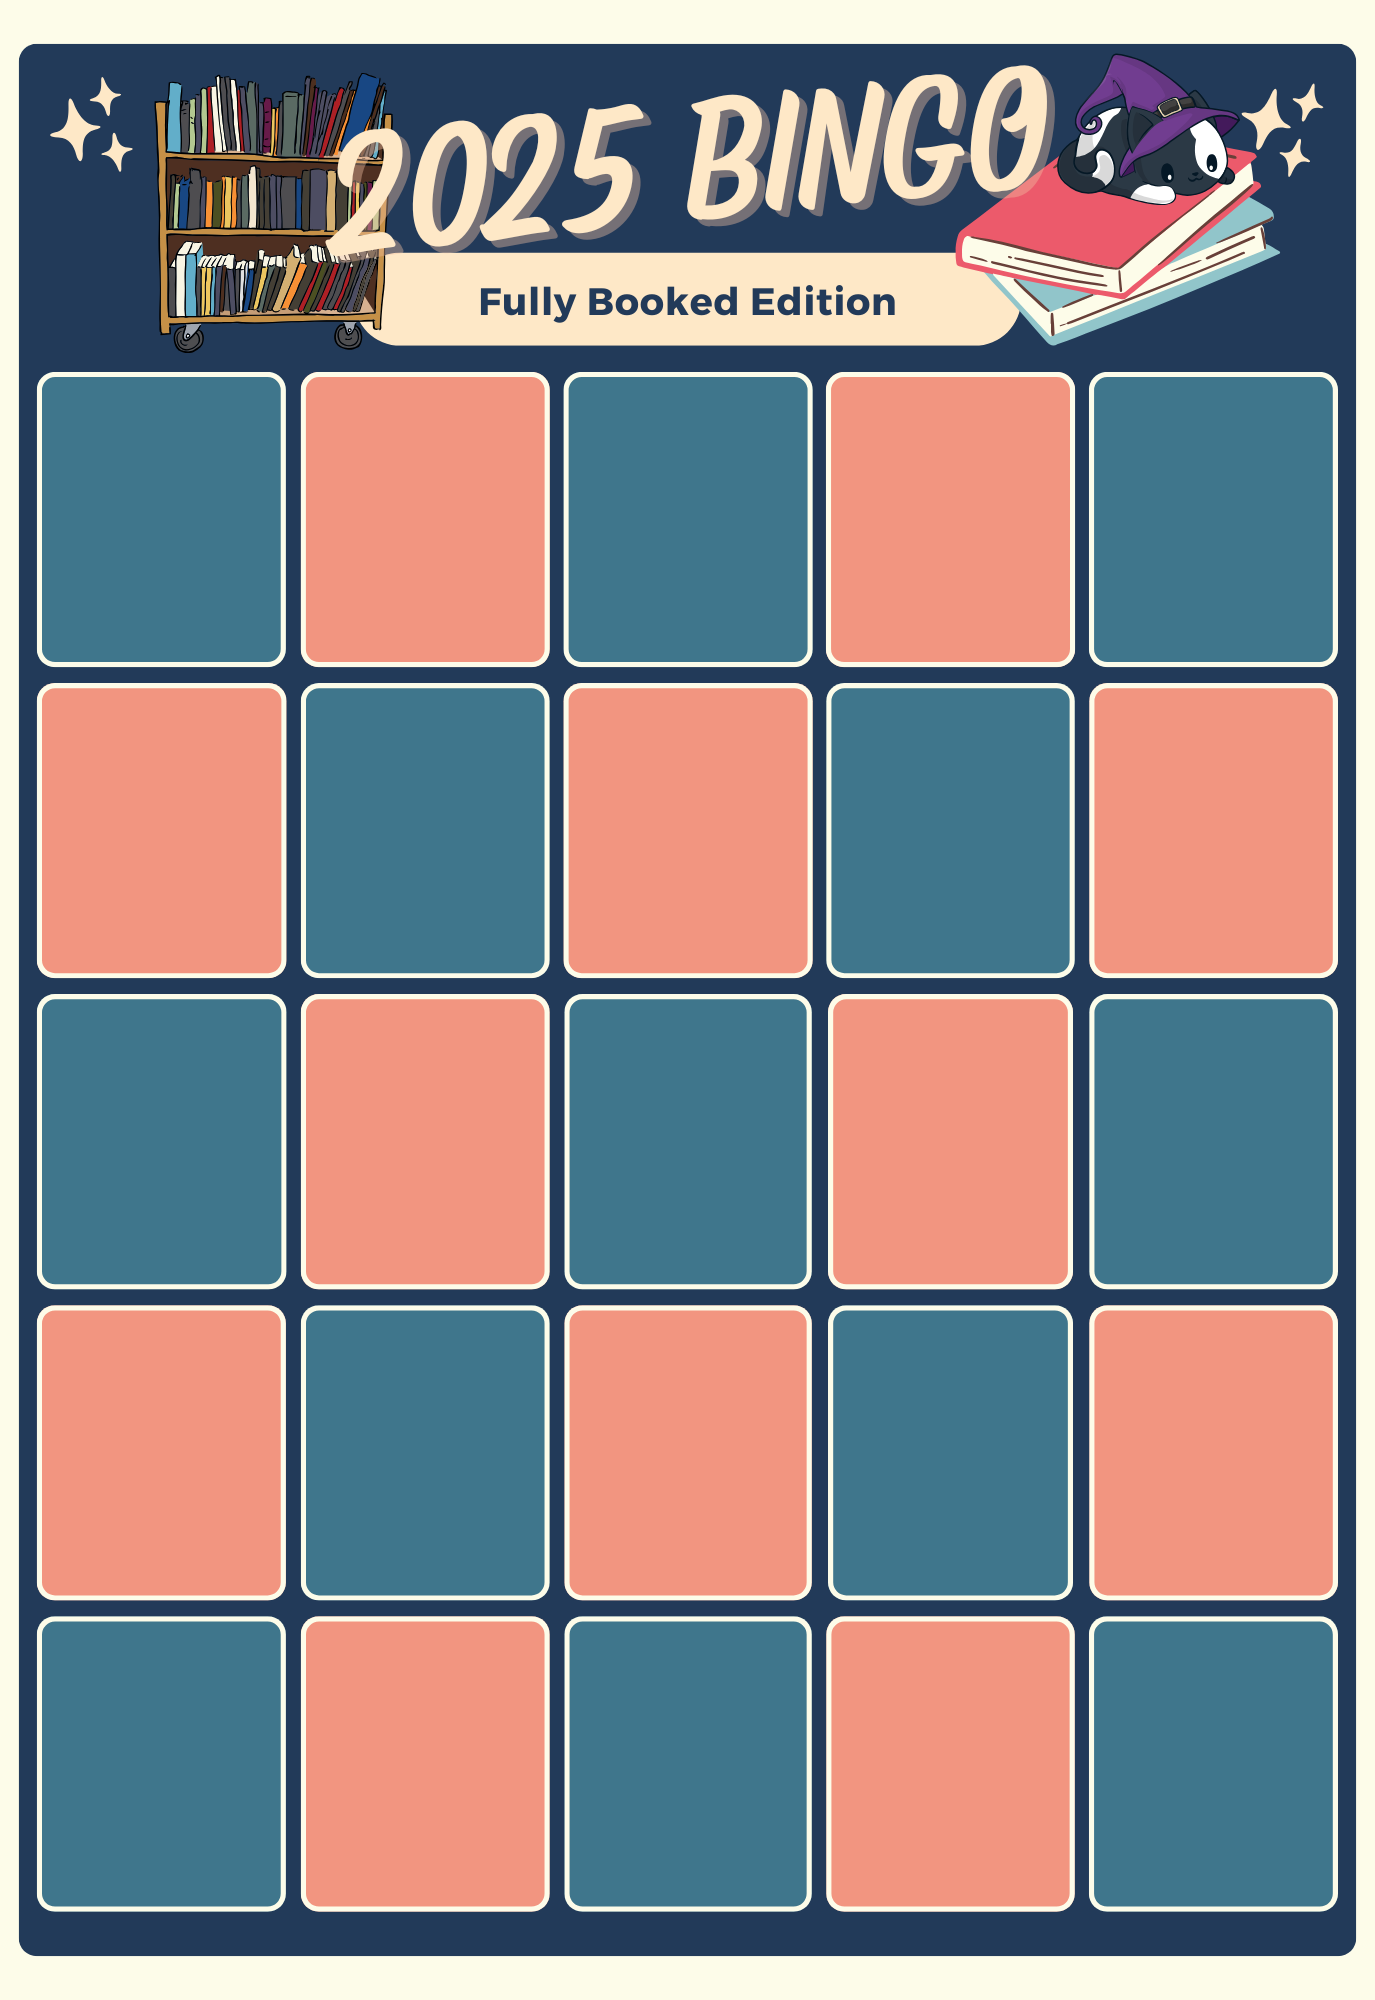
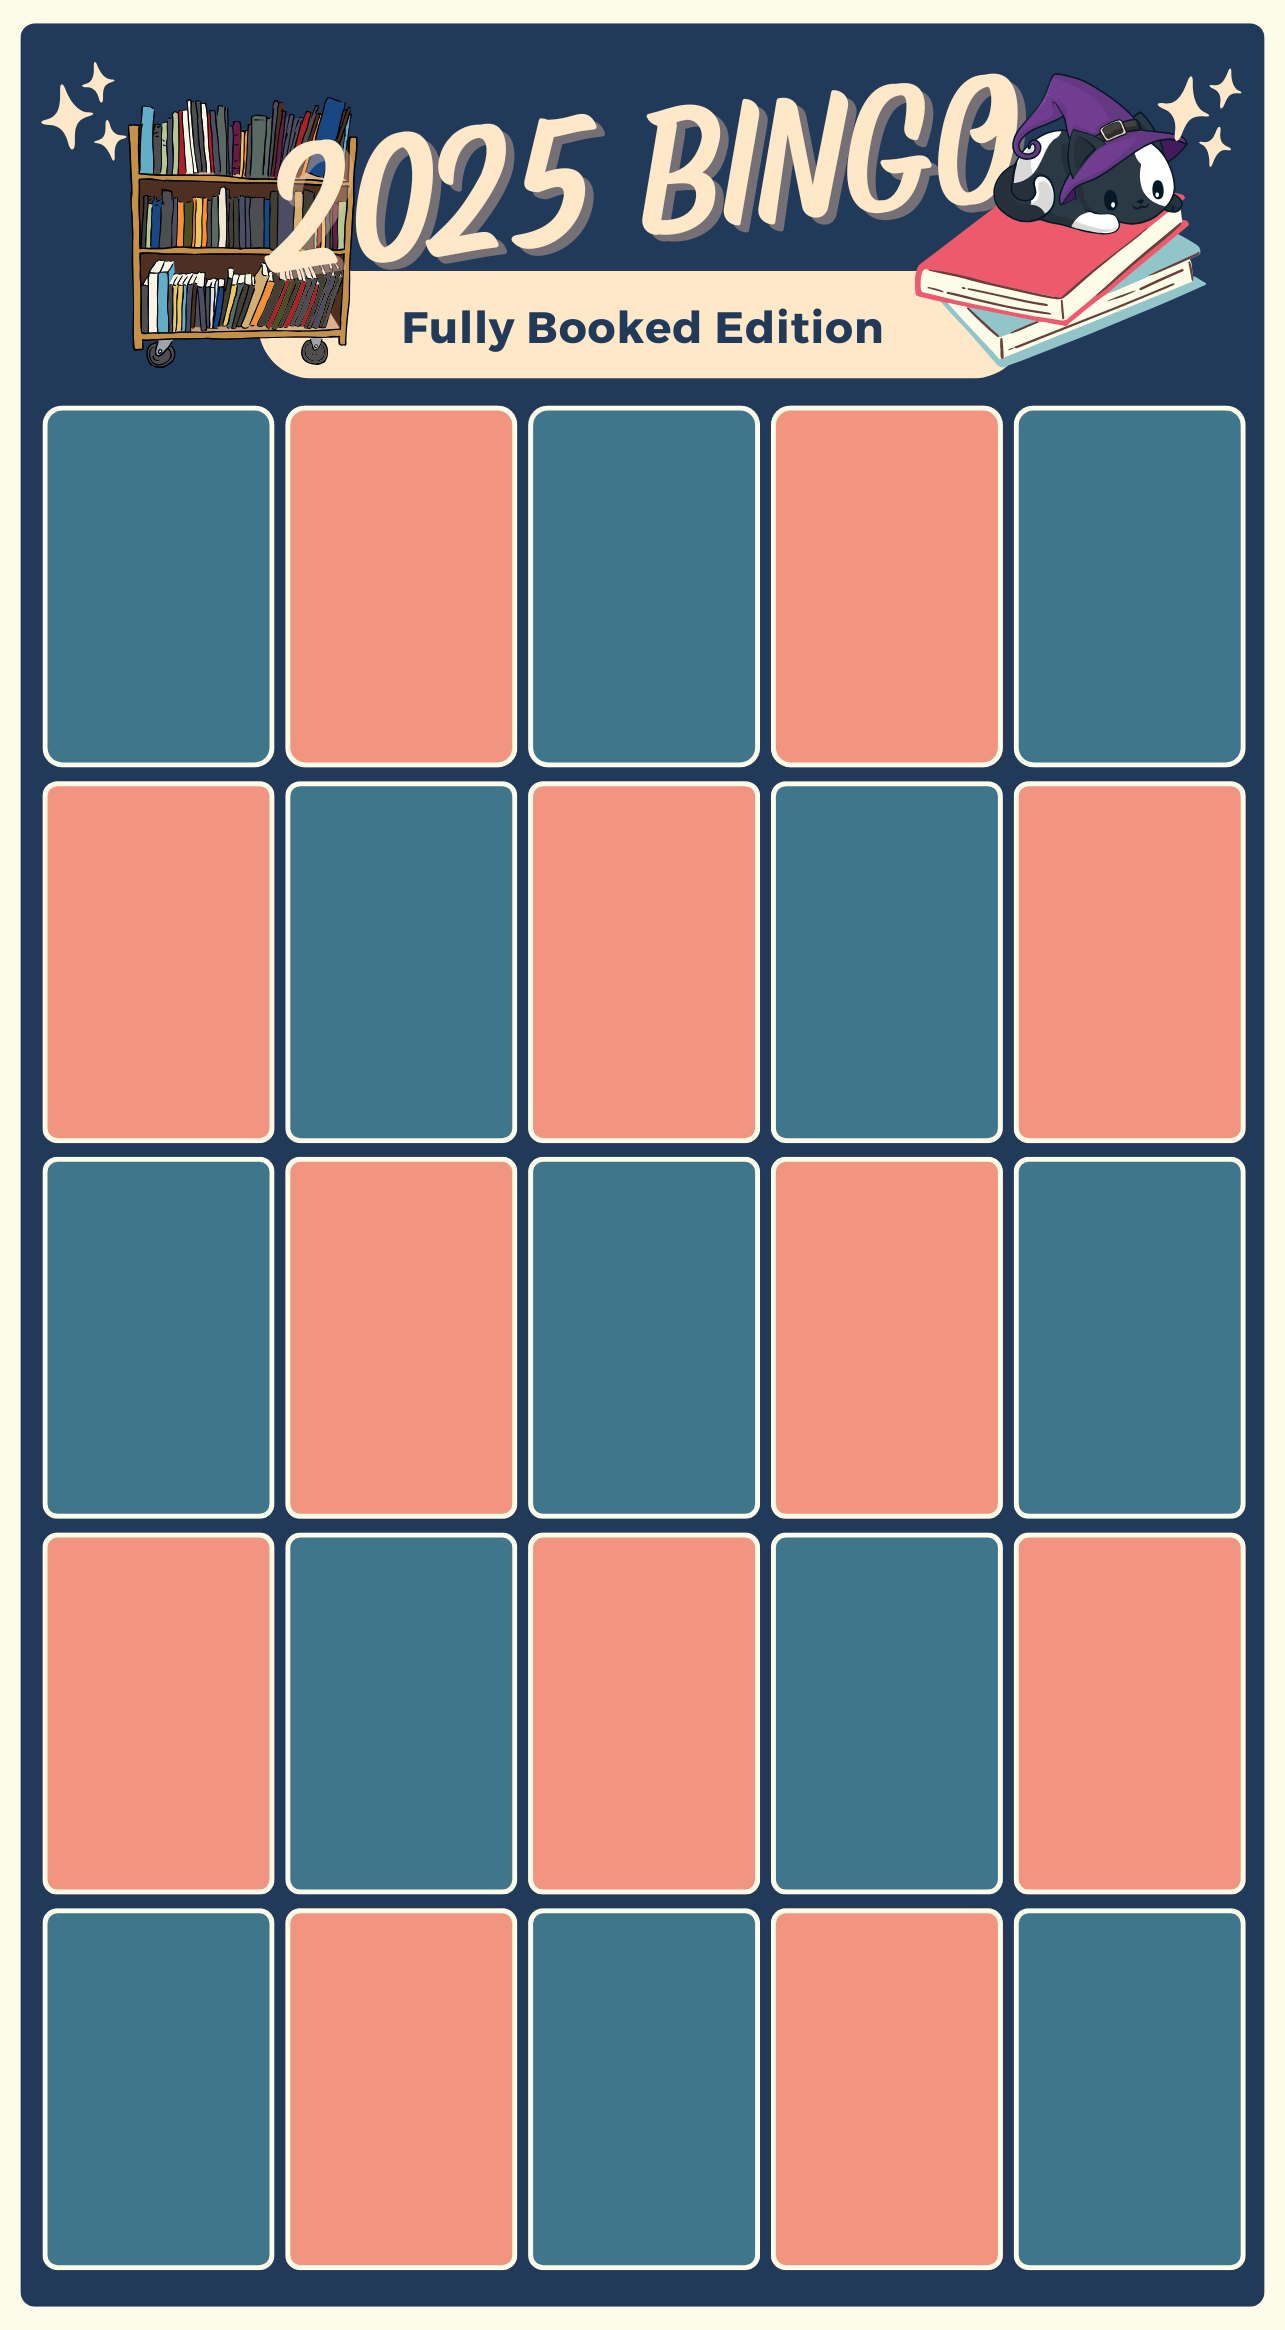
feat: Change the board and print metadata info (#11)

Changed region(s): [[0.0, 0.0, 0.9961, 0.992]]

diff --git a/server.js b/server.js
@@ -222,6 +222,27 @@ async function drawPromptText(ctx, config, prompt, idx, i, j, promptStart) {
   );
 }
 
+async function drawTitleAuthor(ctx, config, prompt, starRating, i, j) {
+  if (!config.fileName.includes('fullybooked25') || !prompt.isFilled) return;
+
+  ctx.font = "20px Calibri";
+  ctx.fillStyle = "white";
+
+  var titleText = prompt.title.split("(")[0].trim();
+  var authorText = prompt.author.split(",")[0].trim();
+  var ratingText = starRating != 0 ? ` - ${starRating}★` : "";
+  const dummyImage = await loadImage("./star.png"); // Using star.png as dummy for text rendering
+  printAtWordWrap(
+    ctx,
+    titleText + " by " + authorText + ratingText || "",
+    35 + config.xCoverPad / 2 + config.xCoverPad * j,
+    715 + 375 * i,
+    20,
+    215
+  );
+}
+
+
 async function drawExtraStories(ctx, reqBody, config, promptStart) {
   if (!config.fileName.includes('rfantasy')) return;
 
@@ -286,6 +307,7 @@ async function drawBoard(ctx, reqBody, config) {
       }
 
       await drawPromptText(ctx, config, prompt, idx, i, j, promptStart);
+      await drawTitleAuthor(ctx, config, prompt, prompt.starRating, i, j);
     }
   }
 
